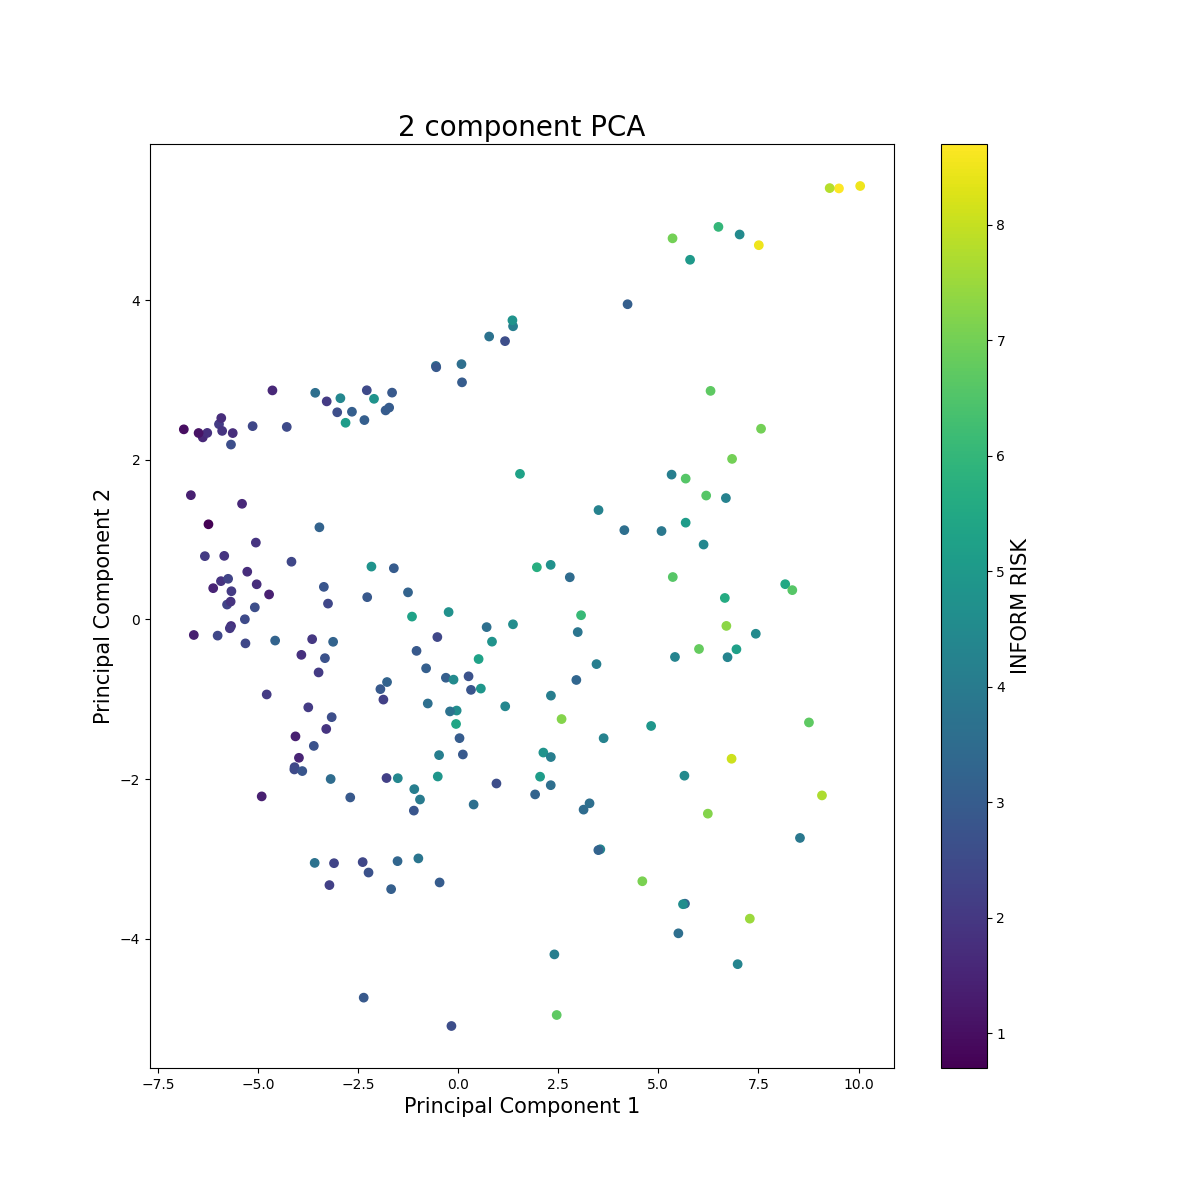
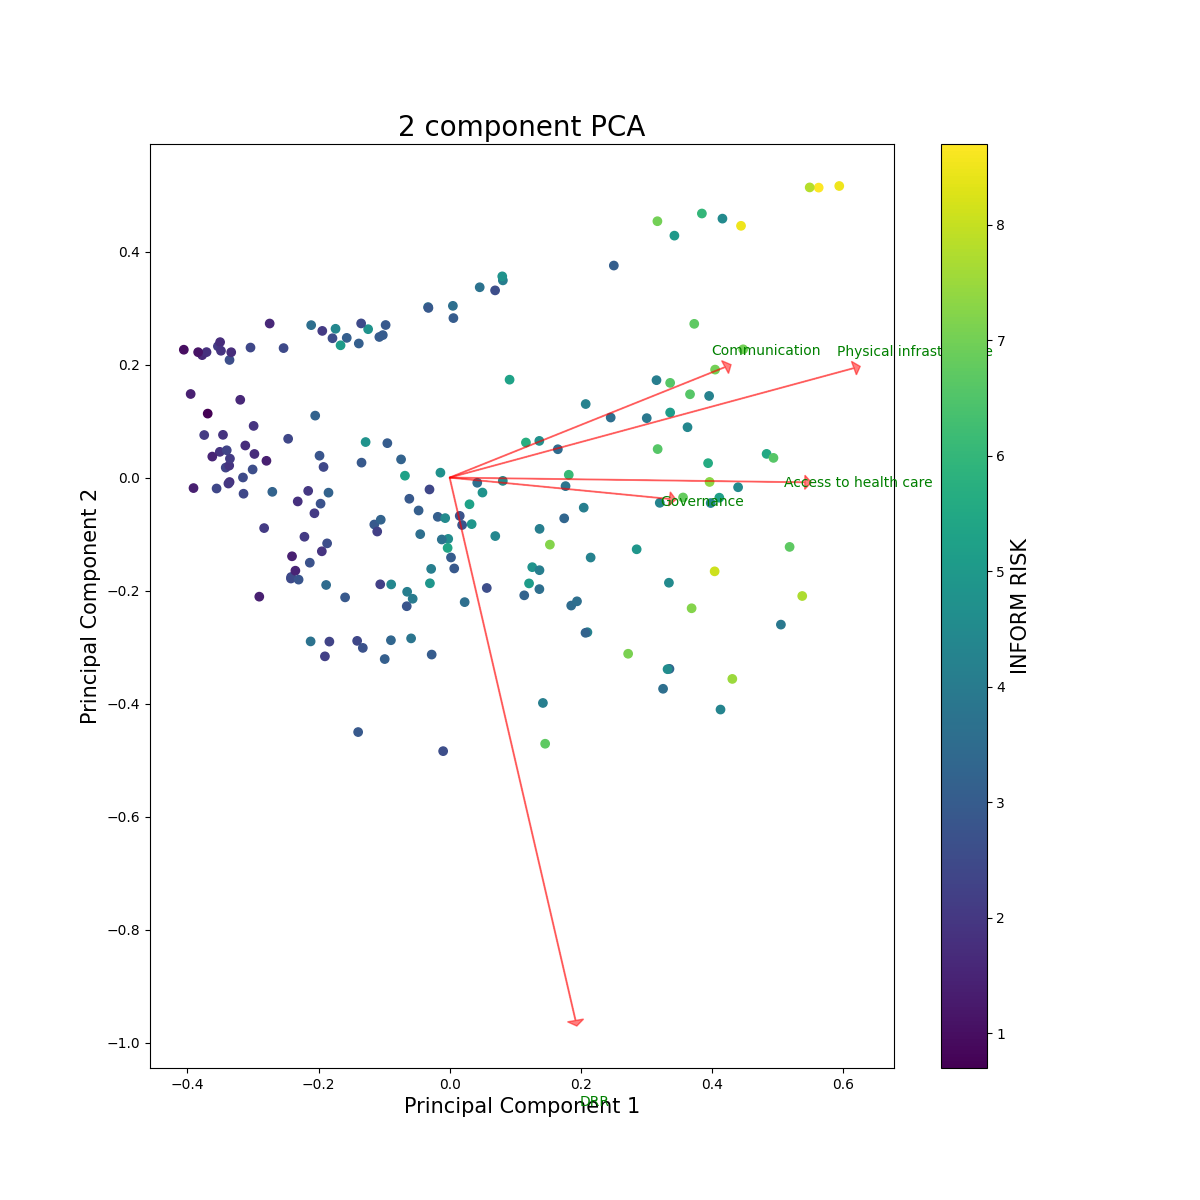
added arrow plot and flexible component number

diff --git a/src/utils.py b/src/utils.py
@@ -14,21 +14,29 @@ def parse_data(path='data/INFORM_Risk_2024_v067.xlsx', sheet_name='INFORM Risk 2
 
     return data
 
-def create_pca_plots(data, cols, title):
+def create_pca_plots(data, cols, title, n_components=2):
     inform_risk = data['INFORM RISK']
 
     data = data[cols]
-    pca = PCA(n_components=2)
+    pca = PCA(n_components=n_components)
     pca.fit(data)
-    evr = pca.explained_variance_ratio_
+    evr = pca.explained_variance_ratio_[:2]
     top_1 = np.argmax(evr)
     top_comp_explains = round(evr[top_1], 2)
-    comps = (abs( pca.components_ ))
-    top_1_comp = comps[top_1]
+    comps = pca.components_[0:2]
+
+    arrow_d = np.transpose(comps)
+
+
+
+    top_1_comp = abs(comps)[top_1]
     feat_importance_frame = pd.DataFrame(top_1_comp, index=cols, columns=['Importance'])
     feat_importance_frame.to_csv('outputs/'+title +  " top 1 component explains " f'{top_comp_explains} variance feature importance.csv')
 
     components = np.array(pca.transform(data))
+    components[:,0] *= 1.0/(components[:,0].max() - components[:,0].min())
+    components[:,1] *= 1.0/(components[:,1].max() - components[:,1].min())
+
     fig = plt.figure(figsize = (12,12))
     plt.xlabel('Principal Component 1', fontsize = 15)
     plt.ylabel('Principal Component 2', fontsize = 15)
@@ -36,6 +44,11 @@ def create_pca_plots(data, cols, title):
     sc = plt.scatter(components[:,0], components[:,1], c=inform_risk)
     cbar = plt.colorbar(sc)
     cbar.set_label("INFORM RISK", fontsize = 15)
+
+    for i in range(len(cols)):
+        plt.arrow(0, 0, arrow_d[i,0], arrow_d[i,1], color = 'r', alpha = 0.5, head_width = 0.025, head_length = 0.01)
+        plt.text(arrow_d[i,0]*1.15, arrow_d[i,1]*1.15, cols[i], color = 'g', ha = 'center', va = 'center')
+
     plt.savefig('outputs/'+title + 'PCA.png')
 
 
